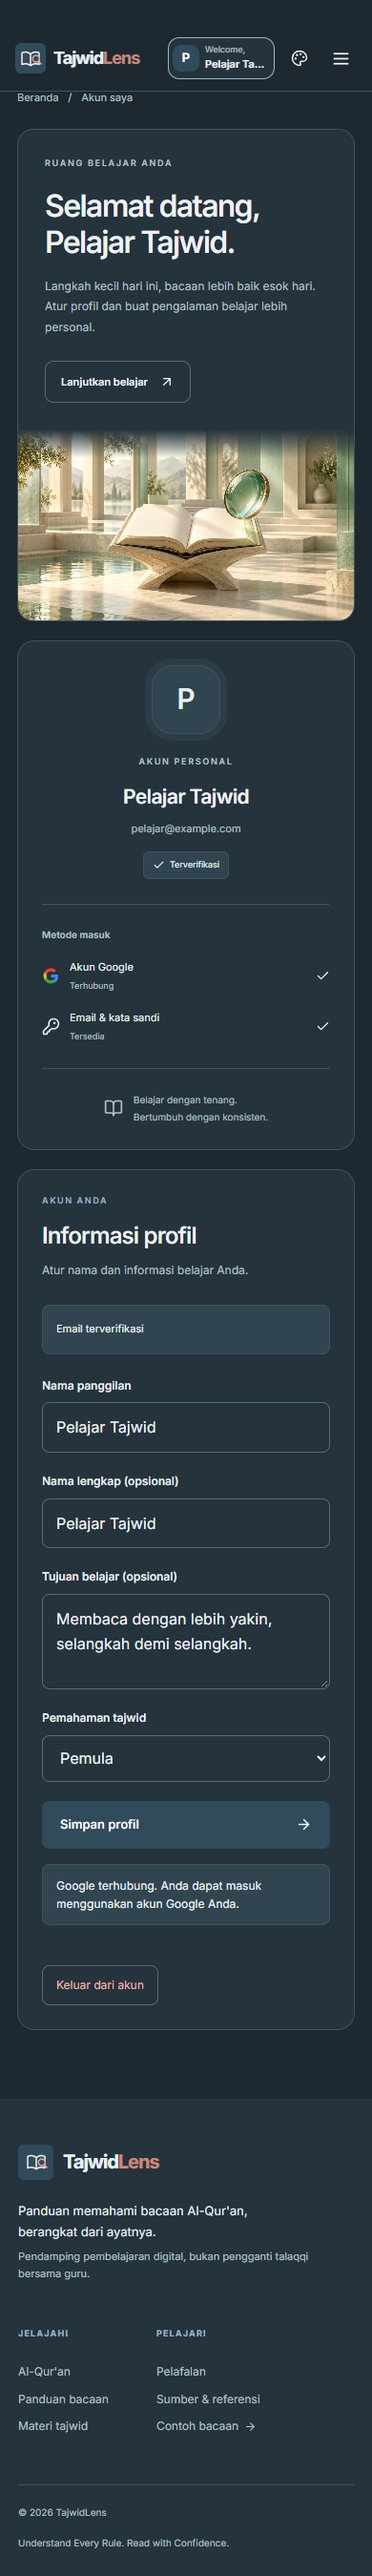
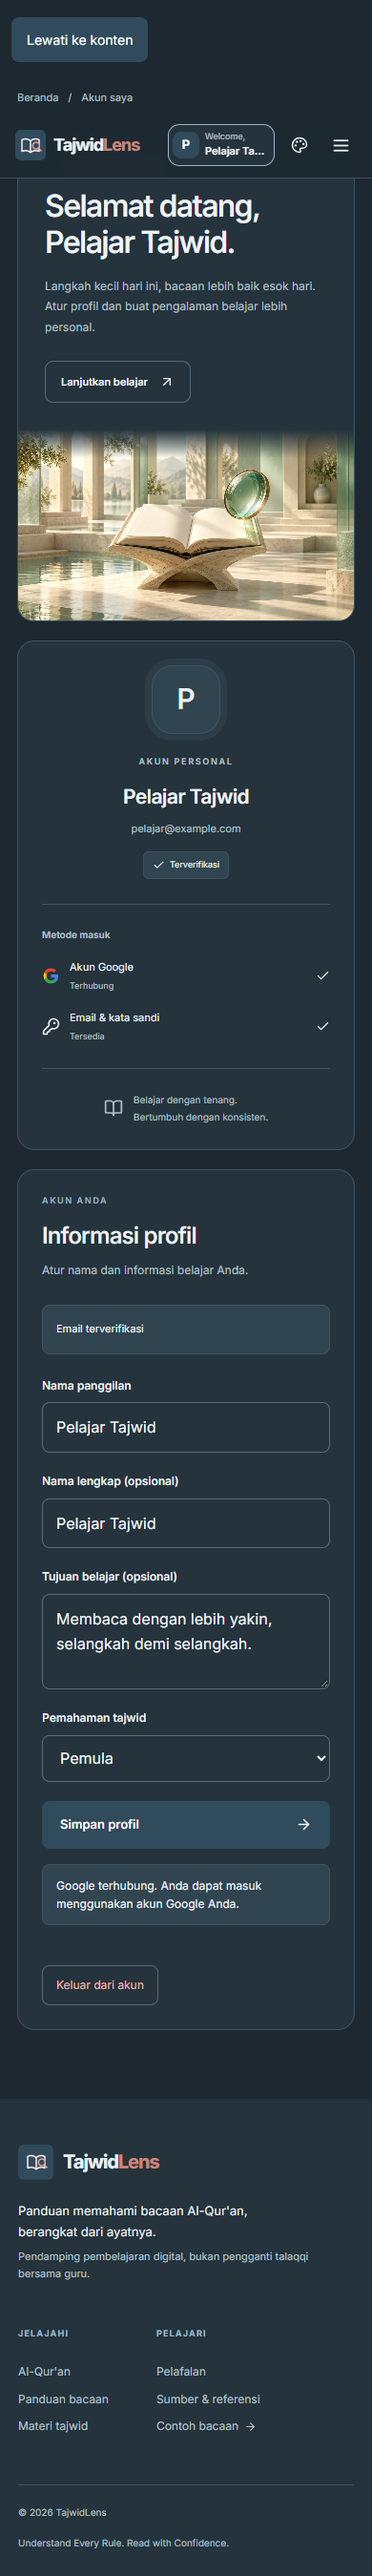
Update: - Readme update

Changed region(s): [[0.0308, 0.0, 0.4, 0.0622], [0.4615, 0.0, 0.6769, 0.0622]]

diff --git a/README.md b/README.md
@@ -1,9 +1,26 @@
+<p align="center">
+  <img src="web/public/showcase/natural-branding.png" alt="TajwidLens — baca Al-Qur'an dan pahami setiap bacaannya" width="100%" />
+</p>
+
 # TajwidLens
+
+## Demo & Source Code
+
+- **Live Demo:** [TajwidLens Web App](https://itsiqbal-99.github.io/TajwidLens/)
+- **GitHub Repository:** [itsiqbal-99/TajwidLens](https://github.com/itsiqbal-99/TajwidLens)
 
 TajwidLens is a static, Indonesian-language learning companion for reading the Quran with inspectable tajweed annotations. It does not generate tajweed rulings in the browser. The reader uses a pinned, precomputed corpus and displays the exact annotated character ranges over a separately verified Quran edition.
 
 ## Features
 
+- Beginner entry points: **Mulai Belajar**, **Cari Ayat**, and **Bingung Cara Bacanya**, plus a suggested five-stage learning path without progress tracking.
+- Quran Explorer emphasizes reading; Reading Guide emphasizes questions and contextual explanations. Both use the same reader, text, and annotation data.
+- **Sederhana / Detail** views: primary rules first, or all source annotations including overlapping and advanced rules.
+- Read one ayah or three consecutive ayahs. Selecting another ayah in the group preserves the surrounding verses.
+- URL-backed ayah, annotation, display mode, and color preferences; browser Back/Forward restores these choices. Arabic font size persists locally.
+- Annotations remain keyboard- and touch-selectable when colors are disabled. Large rule buttons provide an alternative to tapping a small Arabic range.
+- Contextual words, marked letters, reading instructions, common mistakes, same-rule occurrence navigation, related lessons, and exact links to similar examples.
+- Interactive **Waqaf / Wasal** comparison for **Al-Fatihah 1:3**, sourced to Understand Al-Qur’an Academy, *Learn Tajweed* (2020), lesson 54a (PDF page 24). This explicit teaching example uses a separate `study:` ID and never adds inferred rules to the corpus. The waqaf example demonstrates a full stop with sukun, without rawm.
 - All 114 surahs and 6,236 ayahs from KFGQPC UthmanicHafs v3.0 (2026), Hafs `an Asim.
 - 143,049 imported annotation ranges backed by 152 stable source rules.
 - Character-level highlighting: a highlight can cover part of a word, cross a word boundary, or overlap another rule.
@@ -12,11 +29,14 @@ TajwidLens is a static, Indonesian-language learning companion for reading the Q
 - Searchable surah and ayah pickers.
 - Previous/next navigation and horizontal swipe navigation on mobile.
 - A per-ayah tajweed map with spaced, color-coded rule chips.
-- 24 beginner learning modules with letter groups and prominent examples.
-- Local search across lessons, terms, surahs, and curated learning examples.
-- A hijaiyah pronunciation explorer.
-- Responsive light and dark themes, keyboard focus states, and reduced-motion support.
-- Static export with optional account integration; Quran learning remains available without an account or runtime Quran API request.
+- 24 beginner learning modules with category-specific visual illustrations, letter groups, and prominent examples. The same visual language continues from the library card into each lesson detail page.
+- Local search across lessons, everyday questions, all surah names, exact references such as `2:255`, and a compact selection of actual corpus annotations (up to three examples per law, supplemented by lesson examples). It is not a full-text search of every ayah.
+- A hijaiyah pronunciation explorer with simple practice instructions and side-by-side comparisons using the existing makhraj data. Audio behavior is unchanged.
+- Three responsive color themes—**Samudra**, **Zamrud**, and **Senja**—with a named theme picker, persisted locally in the browser.
+- A direct **Belajar tajwid** shortcut in the home hero, in addition to the complete learning-path section.
+- Installable PWA experience for Android and iOS, including a web app manifest, home-screen icons, an Android install prompt, iOS installation guidance, and offline caching for the application shell.
+- Responsive keyboard focus states and reduced-motion support.
+- Static export with no account, analytics dependency, API server, or runtime Quran API request.
 
 ## Tajweed data policy
 
@@ -38,8 +58,6 @@ npm run dev
 ```
 
 Open `http://localhost:3000`.
-
-Optional accounts: set `NEXT_PUBLIC_API_URL` in `.env.local` to the separately hosted TajwidLens API origin (local: `http://localhost:4000`) and rebuild. Login, registration, recovery, verification and profile are static client pages. API deployment/setup is documented in the sibling `api/README.md`. No authentication secret belongs in a `NEXT_PUBLIC_*` variable. Without the API URL, learning remains available and account pages state that the service is not configured. Set the public API URL in your hosting build environment; the production workflow was not modified.
 
 ## Validation and production build
 
@@ -64,11 +82,20 @@ The validator checks the pinned source hashes, the display-edition digest, all 1
 - `public/data/tajweed/` contains one runtime payload per surah, keeping the initial bundle small.
 - `src/data/tajweed-index.json` is the generated manifest.
 - `src/data/tajweed-rules-generated.json` is the filtered, display-ready rule catalog.
+- `src/data/learning-verses.json` contains exact KFGQPC verses used by the home demo and lesson pages; it is generated from the same verified data as the reader.
+- `src/data/tajweed-examples.json` is the compact local example index, generated from accepted annotations.
+- `src/lib/reading-navigation.ts` centralizes lesson links, legacy-ID resolution, primary-rule filtering, and the explicitly sourced waqaf study.
 - `src/components/tajweed-text.tsx` renders exact and overlapping ranges.
 - `src/components/quran-workspace.tsx` contains reader state, searchable navigation, the rule map, mobile swiping, and the inspector.
 - `src/data/annotations.ts` now contains only curated lesson examples; it no longer merges or invokes an automatic detector.
 
-The older Tanzil dataset remains in the repository for lesson examples and source comparison. The annotation reader itself displays only the KFGQPC text included with the pinned tajweed source.
+Full ayah displays on the homepage, lesson pages, and reader use the same KFGQPC edition. Basmala is separate only at the start of surahs other than Al-Fatihah and At-Tawbah. Short pedagogical fragments in existing lesson prose remain editorial examples; the older Tanzil dataset is retained for provenance and regression comparison.
+
+Legacy links are resolved by law and word position, never by selecting an unrelated annotation. Some lessons (including laws outside the stable corpus coverage) have no matching range: their links retain the lesson context and explain the missing highlight. An unsupported or invalid annotation link never silently selects a different law.
+
+Generated Quran payloads and pinned sources use LF line endings through `.gitattributes` so Windows checkouts do not invalidate byte hashes. Run `npm run tajweed:build` after updating an older checkout. The strict runtime hash check remains enabled.
+
+The regression suite covers old and new links, lesson destinations, indexed examples versus runtime payloads, exact text preservation with colors disabled, display priorities, and conversational search. Production builds validate every Quran payload again.
 
 ## Static deployment
 

diff --git a/api/docs/phase-01/TEST_REPORT.md b/api/docs/phase-01/TEST_REPORT.md
@@ -4,6 +4,7 @@
 
 - Web static export 41 pages PASS; API build PASS; 25 frontend unit tests PASS, including strict completion-message destination validation; frontend lint PASS.
 - Final-export API/browser suite: 18 PASS / 1 SKIP / 0 failed. Popup tests now assert that the **original page** receives new-user profile onboarding / returning-user home navigation and that each popup closes automatically, without pressing the manual status button. Profile edit, password-confirmed Google linking, normal password login/recovery/logout, guest entry and security regressions also pass.
+- A final repeat with the same-tab Google flow added also passes 18/1/0: without an originating listener, completion falls back to authenticated home in the same tab. No live identity or account was used.
 - Linking checks cover unauthenticated/CSRF/extra-body rejection, wrong password, mismatched email, missing live session, expired intent, conflicting Google subject, replay, unchanged user count/ID/profile/password and subsequent ordinary Google/password login.
 - Login/register visual fixture: sharp wallpaper covers the full panel, no blur, .94 opacity; six widths PASS with exact logo/hadith, no overflow, pointer reset and reduced motion.
 - Profile/navbar visual fixture: six widths 1440/1280/1024/768/390/320 PASS, long nickname/email, signed-in greeting, guest sign-in link, focus, dark theme and reduced motion. No live user was created/edited for screenshots.

diff --git a/api/docs/phase-01/ACCOUNT_EXPERIENCE.md b/api/docs/phase-01/ACCOUNT_EXPERIENCE.md
@@ -37,4 +37,4 @@ No schema change, manual account edit, live-user merge or migration was performe
 - Screenshots: `login-redesign-desktop.png`, `login-redesign-mobile.png`, `register-redesign-desktop.png`, `register-redesign-mobile.png`, `profile-redesign-desktop.png`, `profile-redesign-mobile.png`, `profile-redesign-dark.png`.
 - The first browser run exposed mobile navbar overflow in the earlier export. It was fixed and the export rebuilt, rather than weakening the assertion.
 
-Full browser acceptance on the rebuilt export: **18 PASS / 1 SKIP / 0 failed**, including automatic popup closure and onboarding on the original window, profile save, explicit linking and the existing auth regressions. Real Google consent with the revised popup handoff still needs a fresh user retry; real PostgreSQL integration remains separately gated.
+Full browser acceptance on the rebuilt export: **18 PASS / 1 SKIP / 0 failed**, including automatic popup closure and onboarding on the original window, same-tab fallback without a parent listener, profile save, explicit linking and the existing auth regressions. Real Google consent with the revised popup handoff still needs a fresh user retry; real PostgreSQL integration remains separately gated.

diff --git a/api/docs/phase-01/MANUAL_TEST_CHECKLIST.md b/api/docs/phase-01/MANUAL_TEST_CHECKLIST.md
@@ -3,6 +3,7 @@
 ## Latest revision — sharp wallpaper, navbar/profile and popup completion
 
 - TESTED (isolated browser): new Google user confirms their name on the original page, not the popup; the popup closes automatically. Returning Google user reaches home on the original page, popup closes.
+- TESTED: direct/same-tab Google sign-in still reaches authenticated home when no original listener exists.
 - TESTED: profile save/persistence, password-confirmed Google linking, wrong password, wrong Google email, existing linked subject, missing/expired session/intent, replay, and password login after linking. No automatic email-only account merge.
 - TESTED (visual fixtures): full-panel sharp image, visible exact hadith, signed-in Welcome/name chip, guest sign-in entry, illustrated profile, six viewport widths, long names, keyboard focus, dark theme and reduced motion.
 - USER REPORTED: real Google signup/login now succeeds. USER RETRY: close older Google windows, refresh the original login/register page, start once, choose your Google account, and confirm the original page changes while the popup closes. Never share the callback URL/code/token.
